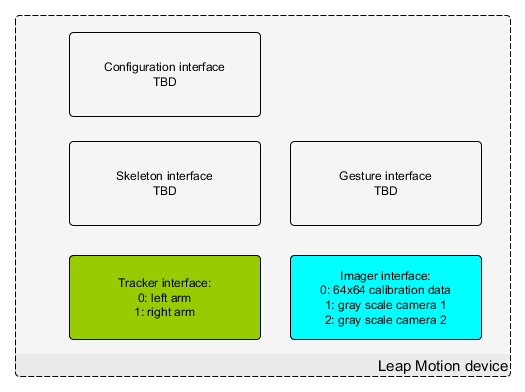
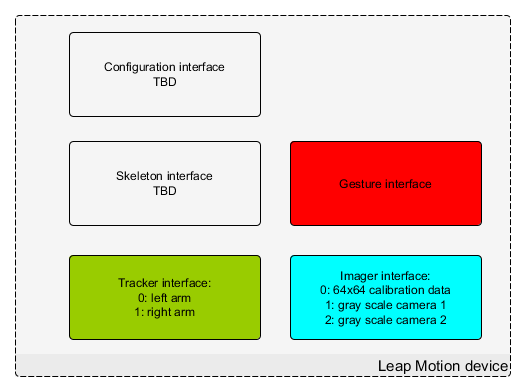
Added gesture and Cyberith proposals

Changed region(s): [[0.5486, 0.3367, 0.9143, 0.5816]]

diff --git a/Device Integration Proposals/Cyberith/CyberithDevice.md b/Device Integration Proposals/Cyberith/CyberithDevice.md
@@ -1,0 +1,36 @@
+> Status: ** early draft **, last update 10-Apr-2015
+
+
+### NavigationPosition:
+Currently the Cyberith Virtualizer has no plans to support a device side calculation for absolute positions. An analysis plugin would be needed for our device to provide this kind of data. 
+
+## Answered questions
+- **Q**: What is the Cyberith haptic feedback?
+- **A**: The haptic feedback API is a simple vibration feedback for the surface under the player/person. This would fall into the output device section and is not really part of locomotion itself.
+
+- **Q**: Is it correct to limit this class to the 2D ground plane?
+- **A**: In my opinion, moving affects tracking points on every axis. X and Z for moving on a 2D ground plane, and jumping affects the Y axis of every Tracker point. 
+
+- **Q**: Should locomotion device be merged into a tracker?
+- **A**: I see the point in merging locomotion devices into simple trackers with additional configuration but I also think that it may be not a good idea.
+
+- **Q**: Should we use polling or events?
+- **A**: In general everything is designed to get called in polling mode because all the values are absolute and can be applied directly. In my opinion, callbacks add another layer of buffering and should be avoided in time critical cases, like input (at least if it is not a button). For example, without further research or investigation I have seen that the analog value callbacks of OSVR in one of the Unity demos are getting called multiply times in one frame.
+
+## Open questions
+The document mentions "body orientation, jump/crouch sensing are best factored into other device classes". Orientation is definitely something tracker related. It is a value which is obsolete if you are using a body tracking suit.
+
+Jumping/crouching, or better the players height in general, on the other hand is better suited in the locomotion class in my opinion. 
+
+From what I understand, tracker points are points with absolute values which do not have a defined relation to each other? Is there a skeleton example somewhere (For PrioVR for example)? So how does a locomotion device affects these points?
+- If it manipulates X and Z of every child point of the body parent, then the player height has to affect these points as well. So movement would be 3D instead of 2D applied on the parent object. 
+
+![Example body](ExampleBody.png)
+
+- If its possible to have something like a pivot point of a body (maybe the hips), then the player height is more like a Tracker which moves this pivot point and the body/tracker moves with it. And the body as a whole on the other hand will be moved by a 2D vector. But this implies that the Tracker points are connected by joints and joints are supported.
+
+![Example pivot](ExamplePivot.png)
+
+So what is the plan about relations between Trackers or how is it planned to enable the possibility to manipulate a subset of Trackers in some way? 
+
+

diff --git a/Interface Class Specifications/Gesture/GestureInterfaceClass.md b/Interface Class Specifications/Gesture/GestureInterfaceClass.md
@@ -1,0 +1,25 @@
+> Status: early draft, last updated 10-Apr-2015
+
+This is a work area for gesture interface class specifications.
+
+A gesture interface communicates high-level gestures such as "fist closed", "thumb up", "pinch", "zoom", "swipe" and so forth.
+
+Several type of devices can detect gestures. These include:
+
+- Hand and finger trackers such as Softkinetic
+- Thalmic myo
+- Nod ring
+
+Gestures could be hand or finger gestures, but could also be head gestures such as "yes" or "no". Two-handed gestures are also possible.
+
+At face value, this is a simple interface as it generates just a gesture event.
+
+The question becomes, how are these gestures defined. are they:
+
+- Enumerated gestures with a placeholder for user-defined or vendor-defined gestures
+- Strings containing the names of gestures
+
+## Overview
+
+![Gesture interface](GestureInterface.png)
+

diff --git a/Interface Class Specifications/Config/ConfigInterfaceClass.md b/Interface Class Specifications/Config/ConfigInterfaceClass.md
@@ -1,0 +1,22 @@
+> Status: **initial draft**, last updated 10-Apr-2015
+
+Work area for config interface class
+
+The config class interface is to be implemented with every device. It provides:
+
+##Events
+- Device connected
+- Device disconnected
+- Low battery
+- Device error
+
+##Services
+-- Initialize device
+-- Get version information (e.g. firmware, serial number)
+
+##Open questions
+- What events and services are missing?
+- What callbacks are required?
+- How do we handle device-specific configuration?
+- Should there be provision for calibration?
+- Should there be provision to save/load config?

diff --git a/Device Integration Proposals/Stompz/README.md b/Device Integration Proposals/Stompz/README.md
@@ -1,0 +1,7 @@
+# Device Integration Proposals
+
+> Prepared by Sensics, Inc. on 10-Apr-2015
+
+> Status: **placeholder**
+
+Placeholder for Stopmz device integration proposal
